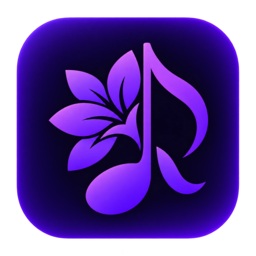
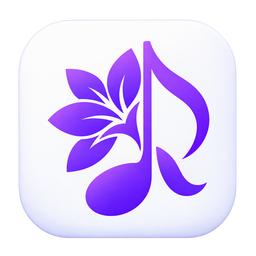
0.4.2: ícone claro (nova arte do usuário)
Troca a versão roxa/glossy pela clara — nota + folhas roxas com gradiente
num quadrado arredondado claro. Mesmo arquivo único (janela, atalho, tela
de boas-vindas); README ajustado.

diff --git a/README.md b/README.md
@@ -376,8 +376,8 @@ faixa — na lista e na barra do player — usa peso de verdade (`theme::strong`
 a família SemiBold), não o texto desenhado duas vezes com deslocamento que
 fingia negrito antes de ter fonte com peso no binário.
 
-**A marca do Yasmine** é uma nota musical brotando folhas, num quadrado
-arredondado roxo com gradiente e brilho — arte fornecida pelo usuário, no
+**A marca do Yasmine** é uma nota musical brotando folhas, roxa com
+gradiente, num quadrado arredondado claro — arte fornecida pelo usuário, no
 formato de ícone de app.
 [`assets/icon-256.png`](crates/pc-app/assets/icon-256.png) é o arquivo único
 — janela, atalho da área de trabalho e tela de boas-vindas do app carregam
